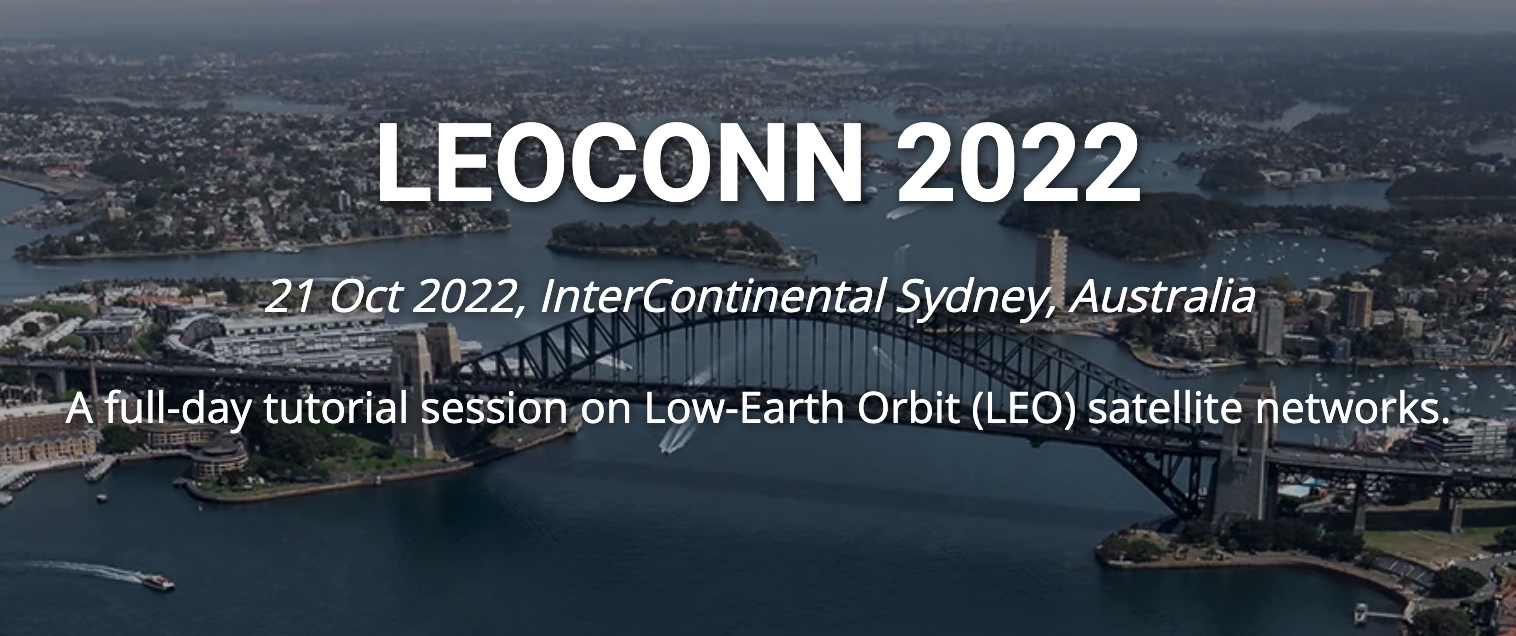
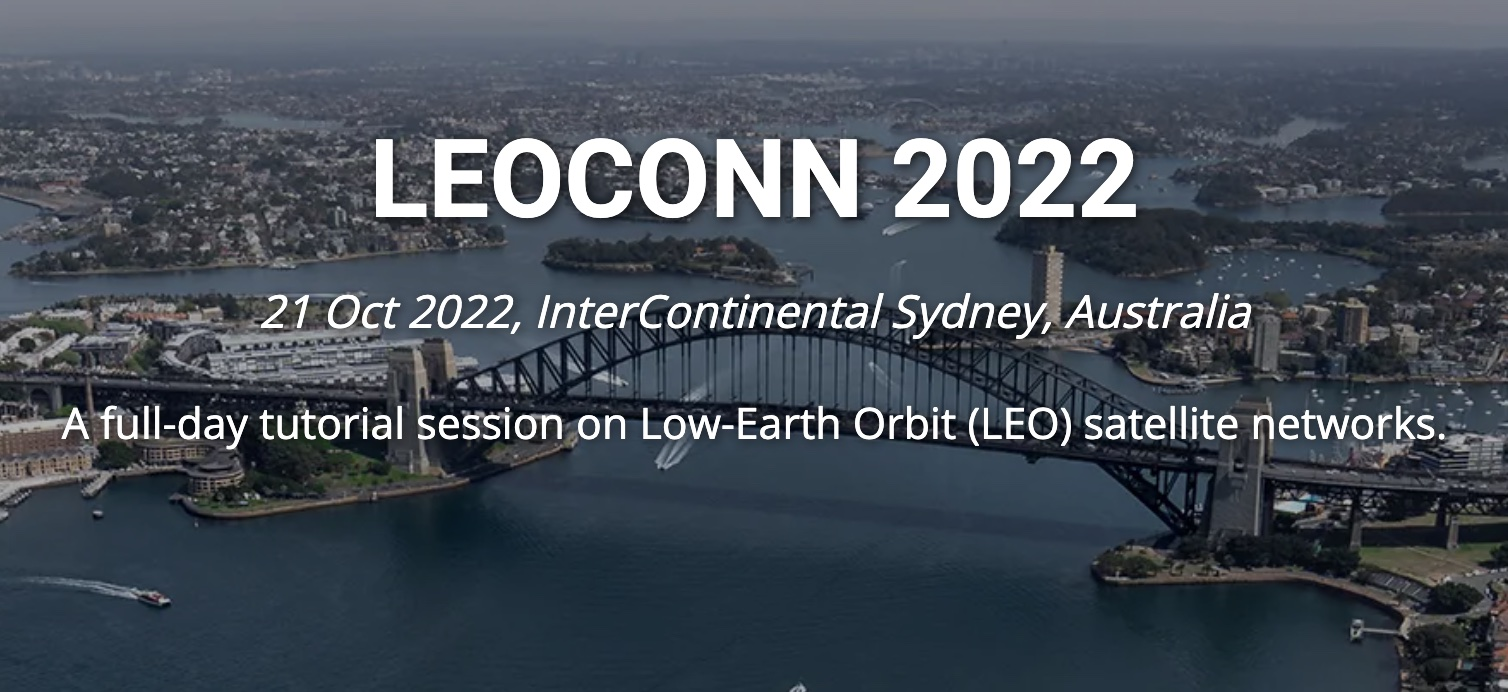
Changed the social media Image to reflect the new location

diff --git a/index.html b/index.html
@@ -9,8 +9,8 @@
     <meta name="author" content="Abdullahi Abubakar, Mohamed Kassem, Debopam Bhattacherjee">
 
     <meta property="og:image" content="https://leoconn2022.github.io/assets/img/Leoconn2022.jpg">
-    <meta property="og:image:width" content="1516"/>
-    <meta property="og:image:height" content="636"/>
+    <meta property="og:image:width" content="1474"/>
+    <meta property="og:image:height" content="742"/>
     <meta property="og:url" content="https://leoconn2022.github.io/">
     <meta property="og:type" content="website">
     <meta property="og:title" content="LEOCONN 2022"/>
